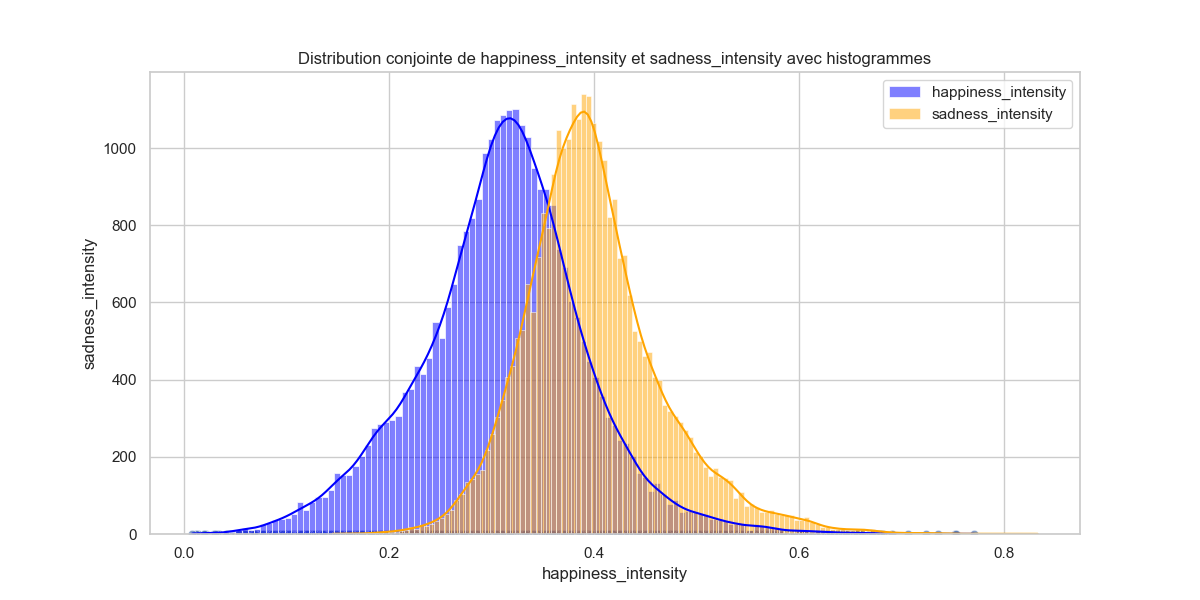
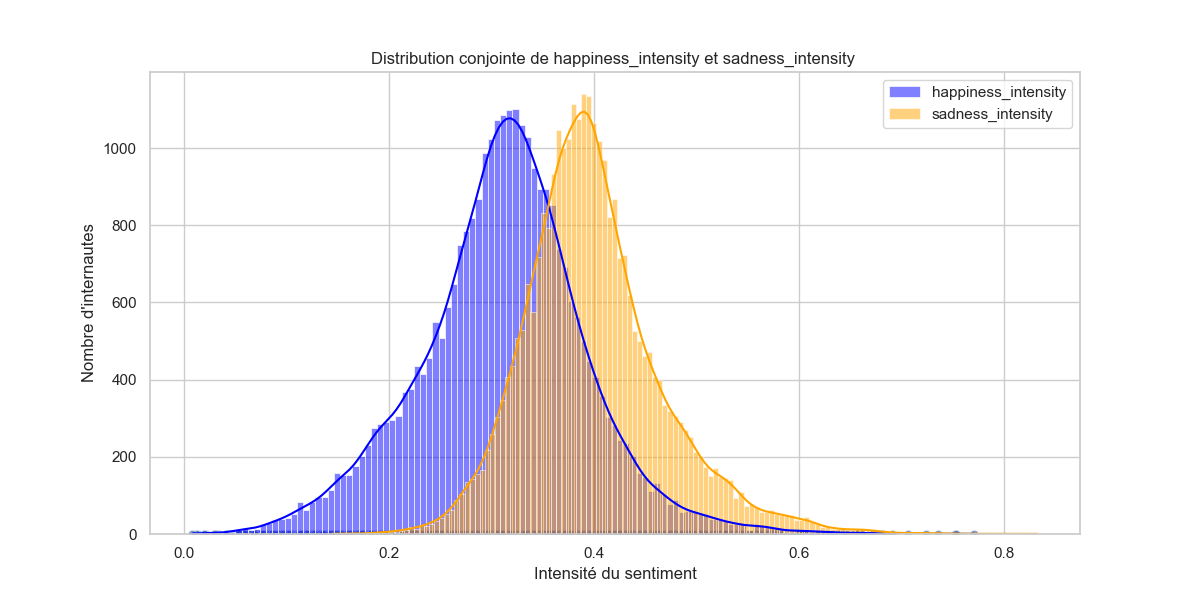
Add question 4

Changed region(s): [[0.2467, 0.09, 0.7708, 0.12], [0.4317, 0.93, 0.5858, 0.99], [0.0617, 0.39, 0.0925, 0.63]]

diff --git a/dendrogram.py b/dendrogram.py
@@ -1,25 +1,54 @@
+import os
 import pandas as pd
 import matplotlib.pyplot as plt
 import seaborn as sns
-from scipy.cluster.hierarchy import dendrogram, linkage
+from scipy.cluster.hierarchy import dendrogram, linkage, fcluster
+from sklearn.preprocessing import StandardScaler
 
 # Charger les données depuis le fichier CSV
 data = pd.read_csv('dataTp2.csv')
+
+# Créer un dossier pour sauvegarder les figures s'il n'existe pas déjà
+output_folder = 'figures'
+os.makedirs(output_folder, exist_ok=True)
 
 # Sélectionner les caractéristiques émotionnelles pour le clustering
 emotion_features = ['valence_intensity', 'fear_intensity', 'anger_intensity', 'happiness_intensity', 'sadness_intensity']
 X = data[emotion_features]
 
+# Standardiser les données
+scaler = StandardScaler()
+X_scaled = scaler.fit_transform(X)
+
 # Configurer le style de seaborn pour de meilleures visualisations
 sns.set(style="whitegrid")
 
-# Appliquer la méthode de linkage hiérarchique
-linked = linkage(X, 'ward')
+# Valeurs de seuil à tester
+thresholds = [10, 15, 20, 25]  # Ajoutez d'autres valeurs de seuil si nécessaire
 
-# Afficher le dendrogramme
-plt.figure(figsize=(12, 8))
-dendrogram(linked, orientation='top', distance_sort='descending', show_leaf_counts=True)
-plt.title('Dendrogramme Hiérarchique')
-plt.xlabel('Indice de l\'échantillon')
-plt.ylabel('Distance')
+# Créer plusieurs sous-plots pour les dendrogrammes
+fig, axes = plt.subplots(nrows=len(thresholds), ncols=1, figsize=(15, 8 * len(thresholds)))
+
+# Générer les dendrogrammes pour chaque valeur de seuil
+for i, threshold in enumerate(thresholds):
+    linked = linkage(X_scaled, 'ward')  # Vous pouvez ajuster la méthode de lien ici
+    clusters = fcluster(linked, t=threshold, criterion='distance')
+
+    dendrogram(linked, orientation='top', distance_sort='descending', show_leaf_counts=True, ax=axes[i])
+    axes[i].set_title(f'Dendrogramme Hiérarchique - Seuil : {threshold}')
+    axes[i].set_xlabel('Indice de l\'échantillon')
+    axes[i].set_ylabel('Distance')
+
+    # Afficher les clusters obtenus à partir du seuil
+    axes[i].axhline(y=threshold, color='r', linestyle='--', label=f'Seuil : {threshold}')
+    axes[i].legend()
+
+# Ajuster l'espacement entre les sous-plots
+plt.tight_layout()
+
+# Nommer et sauvegarder la figure dans le dossier spécifié
+figure_name = 'dendrograms.png'
+figure_path = os.path.join(output_folder, figure_name)
+plt.savefig(figure_path)
+
 plt.show()

diff --git a/question4.py b/question4.py
@@ -1,0 +1,48 @@
+import pandas as pd
+import numpy as np
+from sklearn.metrics import silhouette_score, precision_recall_fscore_support
+from sklearn.cluster import KMeans
+from sklearn.preprocessing import StandardScaler
+
+# Load the data
+data = pd.read_csv('datatp2.csv')
+
+# Select the emotional features for clustering
+emotion_features = ['valence_intensity', 'fear_intensity', 'anger_intensity', 'happiness_intensity', 'sadness_intensity']
+X = data[emotion_features]
+
+# Standardize the data
+scaler = StandardScaler()
+X_scaled = scaler.fit_transform(X)
+
+# Separate the data by class (assuming you have class labels in the 'sentiment' column)
+class_0 = X[data['sentiment'] == 0]
+class_1 = X[data['sentiment'] == 1]
+class_minus_1 = X[data['sentiment'] == -1]
+
+# Concatenate the data from all classes
+all_data = np.concatenate((class_0, class_1, class_minus_1))
+
+# Apply K-means with K=3
+kmeans_3 = KMeans(n_clusters=3, random_state=42)
+kmeans_3.fit(all_data)
+
+# Predict clusters for each sample
+all_clusters_3 = kmeans_3.predict(all_data)
+
+# Get the actual class labels
+labels_class_0 = np.zeros(len(class_0))  # Labels for sentiment 0
+labels_class_1 = np.ones(len(class_1))  # Labels for sentiment 1
+labels_class_minus_1 = np.full(len(class_minus_1), -1)  # Labels for sentiment -1
+all_labels = np.concatenate((labels_class_0, labels_class_1, labels_class_minus_1))
+
+# Calculate silhouette score
+silhouette_avg = silhouette_score(all_data, all_clusters_3)
+print(f"Silhouette Score: {silhouette_avg}")
+
+# Calculate precision, recall, and f1-score
+precision, recall, f1_score, _ = precision_recall_fscore_support(all_labels, all_clusters_3, average='weighted')
+
+print(f"Precision: {precision}")
+print(f"Recall: {recall}")
+print(f"F1-score: {f1_score}")

diff --git a/distributions.py b/distributions.py
@@ -31,9 +31,9 @@ for i in range(len(emotion_features)):
         sns.histplot(data[emotion_features[j]], kde=True, color='orange', label=emotion_features[j], alpha=0.5)
         
         # Ajouter des labels, un titre et une légende
-        plt.xlabel(emotion_features[i])
-        plt.ylabel(emotion_features[j])
-        plt.title(f'Distribution conjointe de {emotion_features[i]} et {emotion_features[j]} avec histogrammes')
+        plt.xlabel("Intensité du sentiment")
+        plt.ylabel("Nombre d'internautes")
+        plt.title(f'Distribution conjointe de {emotion_features[i]} et {emotion_features[j]} ')
         plt.legend()
         
         # Nommer et sauvegarder la figure dans le dossier spécifié
